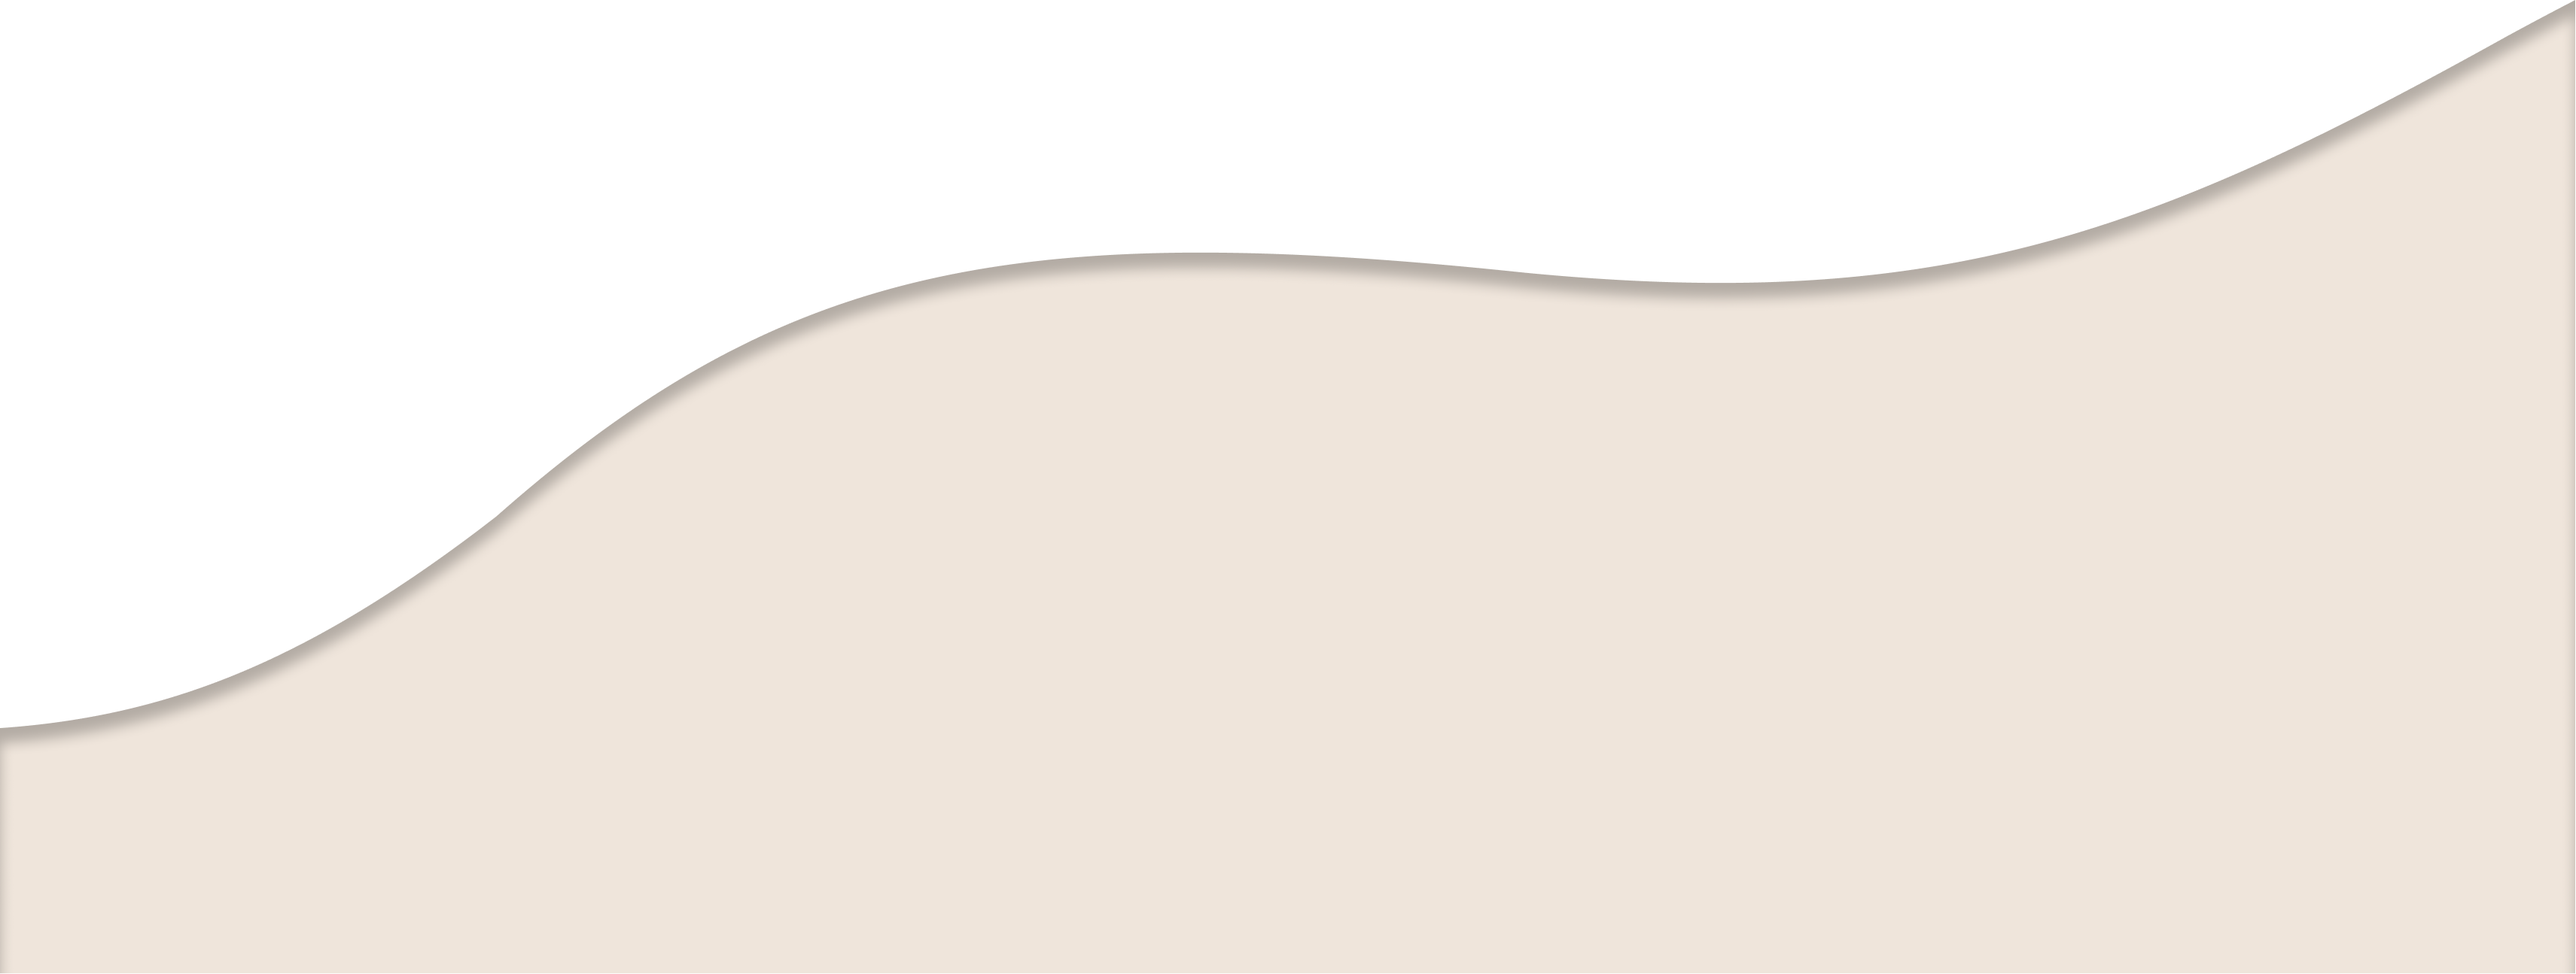
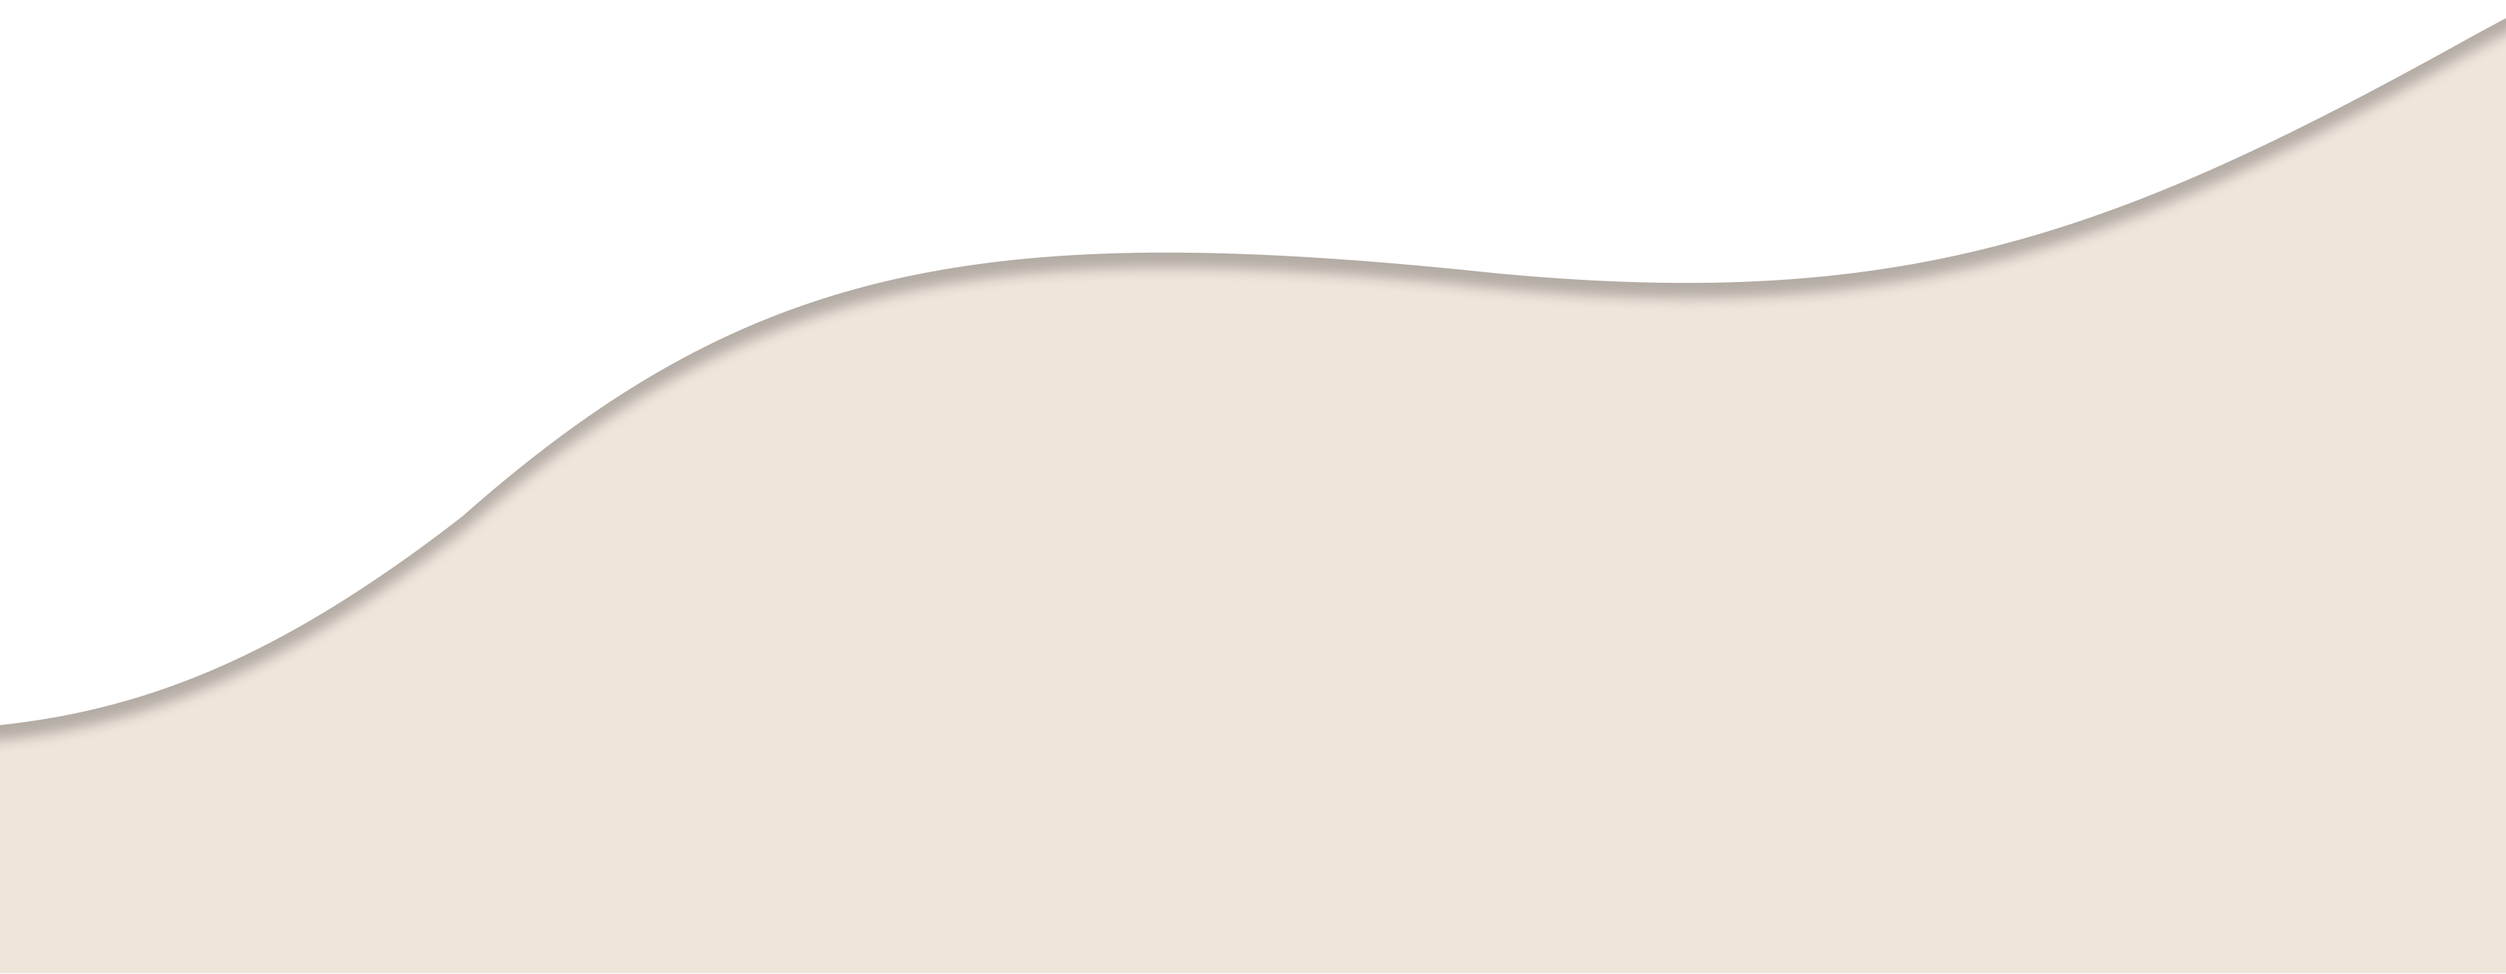
færdig med skalering af borger-forside.php til mellem skærm

diff --git a/css/styles.scss b/css/styles.scss
@@ -362,6 +362,10 @@ $theme-colors: map-merge($theme-colors, $custom-colors);
 		font-size: 16px;
 	}
 
+	.font-eightteen{
+		font-size: 18px;
+	}
+
 	.wave-minus-two-px{
 		margin-top: -2px;
 	}
@@ -371,6 +375,30 @@ $theme-colors: map-merge($theme-colors, $custom-colors);
 		padding-top: 100px;
 	}
 
+	.borger-forside-header{
+		margin-top: -120px;
+		padding-top: 75px;
+	}
+
+	.header-image-borger{
+		margin-top: -200px;
+	}
+
+	.beige-big-wave-borger-forside{
+		margin-top: -225px;
+	}
+
+	.shape-box-1,
+	.shape-box-2,
+	.shape-box-3,
+	.shape-box-4{
+		height: 300px;
+		width: 300px;
+	}
+
+	.en-beboers-tanker-borger-forside{
+		margin-top: -100px;
+	}
 
 }
 

diff --git a/borger-forside.php b/borger-forside.php
@@ -34,8 +34,8 @@
         <div class="col-12 mt-5">
             <h1 class="cormorant pe-4 pt-3 fw-bold header-text-cormorant">En hverdag med mening og muligheder</h1>
         </div>
-        <div class="col-12">
-            <div class="inter font-twelve pe-4 pe-md-5 me-md-5">På Vedelsbo skaber vi rammer for en tryg og
+        <div class="col-12 col-md-10 pt-md-3">
+            <div class="inter font-twelve font-eightteen pe-4 pe-md-5 me-md-5">På Vedelsbo skaber vi rammer for en tryg og
                 meningsfuld hverdag med fællesskab, aktiviteter, nærvær og plads til personlig udvikling.
             </div>
         </div>
@@ -44,7 +44,7 @@
 </div>
 
 <!--green wavy wave-->
-<div aria-hidden="true" class=" green-wavywave-frontpage">
+<div aria-hidden="true" class="">
     <img src="waves-phone/green-wavywave.png" class="waves img-fluid  p-0 m-0" alt="">
 </div>
 
@@ -56,8 +56,13 @@
 </div>
 
 <!--beige big wave-->
-<div aria-hidden="true" class="beige-big-wave-borger-forside">
+<div aria-hidden="true" class="beige-big-wave-borger-forside d-md-none">
     <img src="waves-phone/beige-big-wave.png" class="waves img-fluid  p-0 m-0" alt="">
+</div>
+
+<!--beige big wave-->
+<div aria-hidden="true" class="beige-big-wave-borger-forside d-none d-md-block">
+    <img src="waves-tablet/beige-big-wave.png" class="waves img-fluid  p-0 m-0" alt="">
 </div>
 
 <!--shapes-->
@@ -178,13 +183,13 @@
 </div>
 
 <!--citat fra jette-->
-<div class="container d-flex justify-content-center align-items-center bg-sage-green pt-5 en-beboers-tanker-borger-forside">
+<div class="container-fluid d-flex justify-content-center align-items-center bg-sage-green pt-5 en-beboers-tanker-borger-forside">
 
     <div class="row justify-content-center text-center w-100 mt-3">
 
-        <div class="col-12 col-md-10 col-lg-8">
+        <div class="col-12 col-md-10 col-lg-8 pt-md-5">
 
-            <strong class="cormorant d-block mb-3 en-beboers-tanker-borger-forside-text-italic">
+            <strong class="cormorant d-block mb-3 pt-md-5 en-beboers-tanker-borger-forside-text-italic">
                 “Den omsorg vi får gør hverdagen lys, den nærhed vi mærker gør hjertet varmt, livet blir levende og det
                 gør forskellen.”
             </strong>
@@ -195,7 +200,7 @@
 
             <div>
                 <a href="en-beboers-tanker.php"
-                   class="font-twelve inter bg-dark-brown text-off-black rounded-pill border-0 py-2 px-3 d-inline-block text-decoration-none">
+                   class="font-twelve font-sixteen inter bg-dark-brown text-off-black rounded-pill border-0 py-2 px-3 d-inline-block text-decoration-none">
                     En beboers tanker
                     <i class="fa-solid fa-angle-right"></i>
                 </a>

diff --git a/index.php b/index.php
@@ -207,7 +207,7 @@ require "settings/init.php";
 
         <div class="col-12 col-md-10 col-lg-8">
 
-            <strong class="cormorant d-block mb-3 en-beboers-tanker-borger-forside-text-italic">
+            <strong class="cormorant d-block mb-3 pt-3 en-beboers-tanker-borger-forside-text-italic">
                 “Den omsorg vi får gør hverdagen lys, den nærhed vi mærker gør hjertet varmt, livet blir levende og det
                 gør forskellen.”
             </strong>
